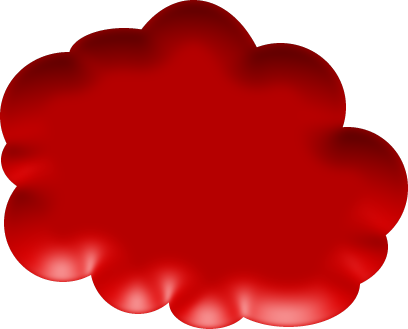
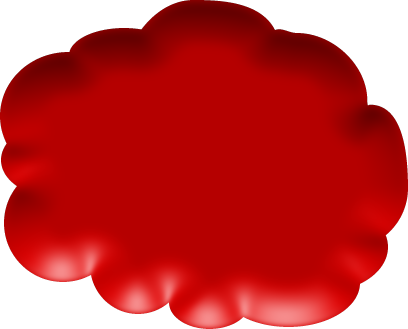
(11/1/06) - change plum pudding image to be more elliptical

Changed region(s): [[0.5, 0.0, 1.0, 0.5471]]

diff --git a/hydrogen-atom/src/edu/colorado/phet/hydrogenatom/model/PlumPuddingModel.java b/hydrogen-atom/src/edu/colorado/phet/hydrogenatom/model/PlumPuddingModel.java
@@ -34,7 +34,7 @@ public class PlumPuddingModel extends AbstractHydrogenAtom {
     //----------------------------------------------------------------------------
     
     /* default size of the atom, tweaked to match image size of PlumPuddingNode */
-    private static final Dimension DEFAULT_SIZE = new Dimension( 225, 125 );
+    private static final Dimension DEFAULT_SIZE = new Dimension( 225, 180 );
     
     /* maximum number of photons that can be absorbed */
     private static final int MAX_PHOTONS_ABSORBED = 5;
